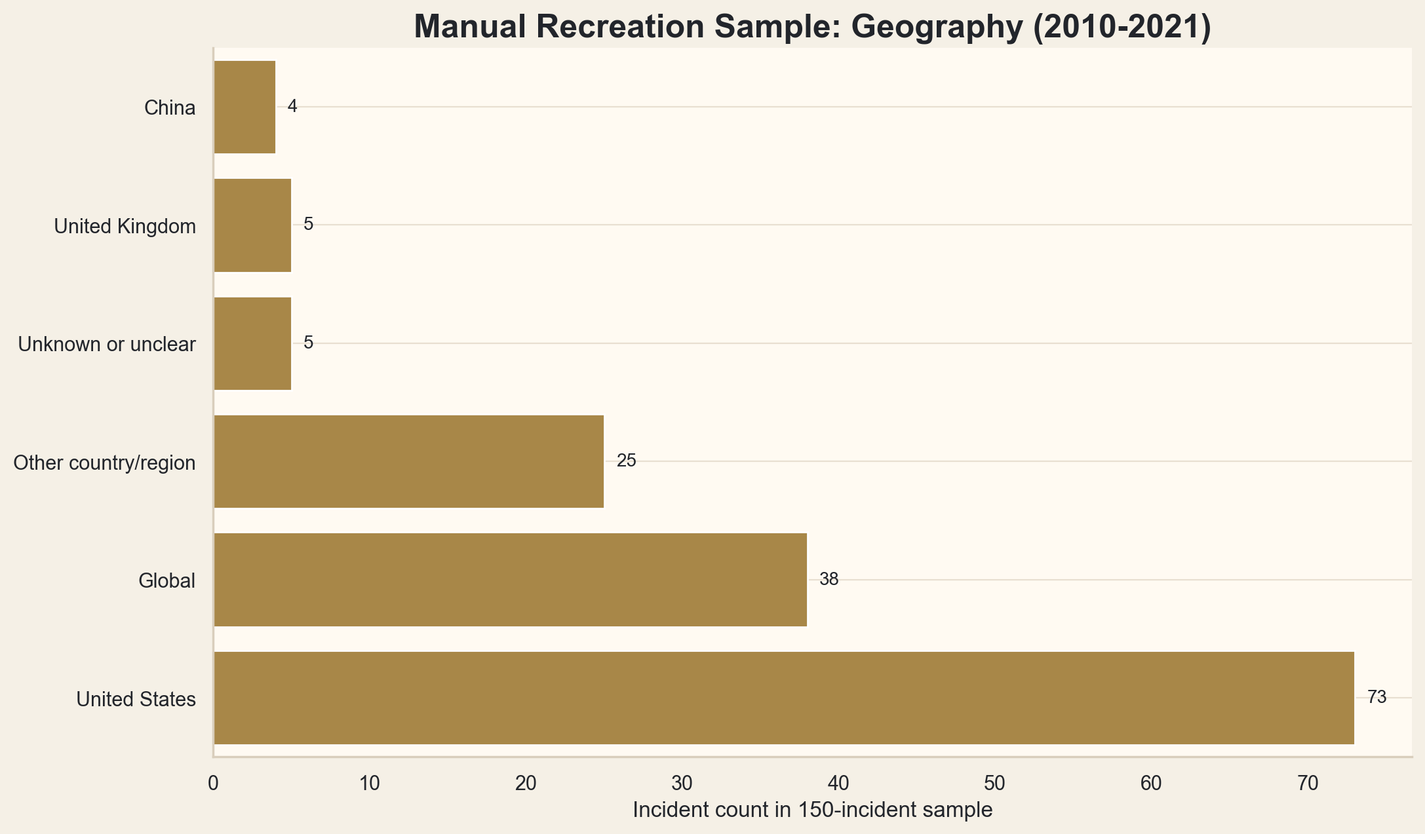
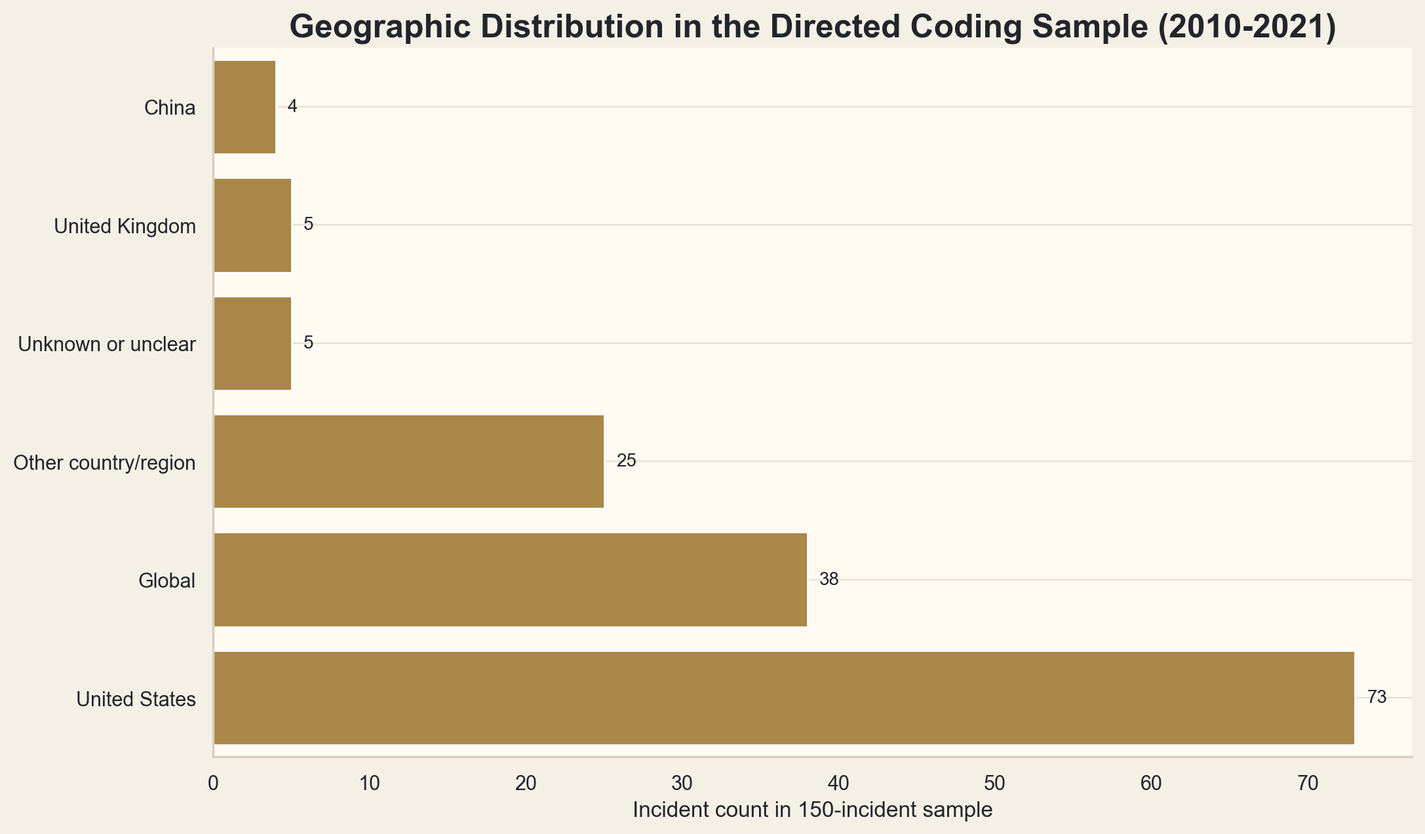
update README report and charts

Changed region(s): [[0.1849, 0.0, 0.9554, 0.0613]]

diff --git a/src/make_charts.py b/src/make_charts.py
@@ -1,4 +1,4 @@
-"""Generate manual-coding charts for the AI incident analysis project."""
+"""Generate directed-coding charts for the AI incident analysis project."""
 
 from __future__ import annotations
 
@@ -119,7 +119,7 @@ def chart_manual_application_areas(application_summary: pd.DataFrame) -> None:
 
     fig, ax = plt.subplots(figsize=(12, 8.5), dpi=200)
     sns.barplot(data=chart_data, x="incident_count", y="application_area", color=TEAL, ax=ax)
-    ax.set_title("Manual Recreation Sample: Application Areas (2010-2021)")
+    ax.set_title("Application Areas in the Directed Coding Sample (2010-2021)")
     ax.set_xlabel("Incident count in 150-incident sample")
     ax.set_ylabel("")
     style_axes(ax)
@@ -138,7 +138,7 @@ def chart_manual_ethics_issues(ethics_summary: pd.DataFrame) -> None:
 
     fig, ax = plt.subplots(figsize=(12, 7.5), dpi=200)
     sns.barplot(data=chart_data, x="incident_count", y="ethics_issue", color=ORANGE, ax=ax)
-    ax.set_title("Manual Recreation Sample: Ethics Issues (2010-2021)")
+    ax.set_title("Ethics Issues in the Directed Coding Sample (2010-2021)")
     ax.set_xlabel("Incident count in 150-incident sample")
     ax.set_ylabel("")
     style_axes(ax)
@@ -153,7 +153,7 @@ def chart_manual_geography(geographic_summary: pd.DataFrame) -> None:
 
     fig, ax = plt.subplots(figsize=(11, 6.5), dpi=200)
     sns.barplot(data=chart_data, x="incident_count", y="geographic_location", color=GOLD, ax=ax)
-    ax.set_title("Manual Recreation Sample: Geography (2010-2021)")
+    ax.set_title("Geographic Distribution in the Directed Coding Sample (2010-2021)")
     ax.set_xlabel("Incident count in 150-incident sample")
     ax.set_ylabel("")
     style_axes(ax)
@@ -200,20 +200,20 @@ def chart_paper_comparison(
         axes[0],
         paper_app_comparison,
         "application_area",
-        "Application Areas: Paper vs. Recreated 2010-2021 Sample",
+        "Comparison With Paper-Reported Counts: Application Areas",
     )
     plot_grouped_comparison(
         axes[1],
         paper_ethics_comparison,
         "ethics_issue",
-        "Ethics Issues: Paper vs. Recreated 2010-2021 Sample",
+        "Comparison With Paper-Reported Counts: Ethics Issues",
     )
     handles, labels = axes[0].get_legend_handles_labels()
     fig.legend(handles, labels, loc="upper center", ncol=2, frameon=False, bbox_to_anchor=(0.5, 0.98))
     fig.text(
         0.02,
         0.015,
-        "Note: Counts are compared against the paper's reported totals, but the current public AIID snapshot appears to have drifted from the paper's incident IDs.",
+        "Note: Counts are compared against the paper's reported totals, but the paper's incident numbers do not map cleanly onto the current public AIID ID space.",
         fontsize=10,
         color=INK,
     )
@@ -259,13 +259,13 @@ def extract_metric(pre_post_summary: pd.DataFrame, period: str, category: str) -
 
 
 def chart_summary_card(summary_stats: list[str], pre_post_summary: pd.DataFrame) -> None:
-    total_sample = extract_stat(summary_stats, "- Manual recreation sample size")
+    total_sample = extract_stat(summary_stats, "- Directed coding sample size")
     top_app = extract_stat(summary_stats, "- Top application area")
     top_issue = extract_stat(summary_stats, "- Top ethics issue")
     taxonomy_fit = extract_stat(summary_stats, "- Post-2021 taxonomy fit counts")
-    lvm_pre = extract_metric(pre_post_summary, "2010-2021 manual recreation", "Language/vision model")
+    lvm_pre = extract_metric(pre_post_summary, "2010-2021 directed coding sample", "Language/vision model")
     lvm_post = extract_metric(pre_post_summary, "2022-2026 extension sample", "Language/vision model")
-    illegal_pre = extract_metric(pre_post_summary, "2010-2021 manual recreation", "Unethical use (illegal use)")
+    illegal_pre = extract_metric(pre_post_summary, "2010-2021 directed coding sample", "Unethical use (illegal use)")
     illegal_post = extract_metric(pre_post_summary, "2022-2026 extension sample", "Unethical use (illegal use)")
 
     fig = plt.figure(figsize=(10, 10), dpi=200, facecolor=BACKGROUND)
@@ -294,10 +294,10 @@ def chart_summary_card(summary_stats: list[str], pre_post_summary: pd.DataFrame)
         )
     )
     ax.text(0.09, 0.89, "What Actually Goes Wrong With AI?", fontsize=24, fontweight="bold", color="white")
-    ax.text(0.09, 0.845, "Manual recreation of a qualitative AI incident study", fontsize=12, color="white")
+    ax.text(0.09, 0.845, "LLM-assisted directed coding of a reproducible AIID sample", fontsize=12, color="white")
 
     cards = [
-        ("Manual sample", f"{total_sample} incidents from 2010-2021"),
+        ("Directed sample", f"{total_sample} incidents from 2010-2021"),
         ("Top issue", top_issue),
         ("Top application area", top_app),
         ("Post-2021 fit", taxonomy_fit),
@@ -350,7 +350,7 @@ def main() -> None:
     chart_taxonomy_fit(inputs["taxonomy_fit_summary"])
     chart_summary_card(inputs["summary_stats"], inputs["pre_post_summary"])
     remove_obsolete_figures()
-    print("Saved manual chart outputs to outputs/figures.")
+    print("Saved directed-coding chart outputs to outputs/figures.")
 
 
 if __name__ == "__main__":

diff --git a/src/build_summary_tables.py b/src/build_summary_tables.py
@@ -29,7 +29,7 @@ SUMMARY_STATS_PATH = PROCESSED_DIR / "summary_stats.md"
 
 ETHICS_COLUMNS = ["ethics_issue_1", "ethics_issue_2", "ethics_issue_3", "ethics_issue_4"]
 
-PRE_PERIOD = "2010-2021 manual recreation"
+PRE_PERIOD = "2010-2021 directed coding sample"
 POST_PERIOD = "2022-2026 extension sample"
 
 COMPARE_APPLICATION_AREAS = [
@@ -386,7 +386,7 @@ def write_summary_stats(
     summary_lines = [
         "# Summary Stats",
         "",
-        f"- Manual recreation sample size: {total_incidents}",
+        f"- Directed coding sample size: {total_incidents}",
         f"- Sample date range: {manual['year'].min()} to {manual['year'].max()}",
         f"- Top application area: {top_application['application_area']} ({int(top_application['incident_count'])} incidents, {top_application['share_of_sample']:.1%})",
         f"- Top ethics issue: {top_ethics['ethics_issue']} ({int(top_ethics['incident_count'])} incidents, {top_ethics['share_of_sample']:.1%})",
@@ -404,7 +404,7 @@ def write_summary_stats(
         f"- Post-2021 taxonomy fit counts: Fits well={int(extension_fit_lookup.get('Fits well', 0))}, Fits partially={int(extension_fit_lookup.get('Fits partially', 0))}, Does not fit well={int(extension_fit_lookup.get('Does not fit well', 0))}",
         "",
         "Method note:",
-        "This summary is based on the reviewed LLM-assisted directed coding sample rather than the archived rule-based classifier attempt.",
+        "This summary is based on reviewed LLM-assisted directed coding rather than the archived rule-based classifier attempt.",
         "",
         "Reliability note:",
         "This project does not reproduce the paper's two-coder intercoder reliability design or a completed second coding pass.",

diff --git a/report/project_report.md b/report/project_report.md
@@ -3,20 +3,20 @@
 ## Background
 AI governance conversations often focus on principles such as fairness, safety, privacy, and accountability. Those principles matter, but they can still feel abstract. This project looks at the other side of the problem: reported incidents where AI systems caused or nearly caused harm in practice.
 
-I built this as a small portfolio reproduction and update based on the paper "AI Ethics Issues in Real World: Evidence from AI Incident Database" by Mengyi Wei and Zhixuan Zhou. The goal is not to claim a perfect academic replication. The goal is to understand how the paper works, recreate its core logic honestly, and update the picture with newer incidents.
-
-## Research question
-Main question: What kinds of real-world problems show up most often when AI systems fail or cause harm?
-
-Extension question: Do the paper's original categories still fit newer post-2021 AI incidents?
+I built this as a small portfolio reproduction and update based on the paper "AI Ethics Issues in Real World: Evidence from AI Incident Database" by Mengyi Wei and Zhixuan Zhou. The goal is not to claim a perfect academic replication. The goal is to understand how the paper works, recreate its coding structure honestly, and update the picture with newer incidents.
 
 ## What the paper did
 The paper analyzed 150 AI Incident Database incidents from 2010 to 2021. It used manual qualitative content analysis and coded four attributes: time, geography, application area, and ethics issue. Application area was single-label, while ethics issue was multi-label. The paper reported 13 application areas and 8 ethics issue categories, and its published results came from manual coding rather than an automated classifier.
 
-## Data source
-This project uses the public AI Incident Database snapshot recorded in `data/raw/source_documents_log.csv`. The cleaned incident file used for sampling is `data/processed/incidents_cleaned.csv`.
+## What this project recreates
+This project recreates the paper's coding structure rather than its exact coding process. It applies the paper's published categories to a reproducible public AIID sample, adds geography, compares the resulting distribution with the paper's reported counts, and then tests the same category frame on a small post-2021 extension sample.
 
-The main recreation uses a 150-incident sample from 2010 to 2021. The extension uses a separate 50-incident sample from 2022 to 2026.
+## Important method differences
+- The paper derived and applied its categories through two-coder manual qualitative coding.
+- This project uses LLM-assisted directed coding suggestions reviewed and accepted by one author.
+- No second independent coding pass was completed.
+- The project does not reproduce the paper's intercoder reliability design.
+- The public paper does not fully reveal the exact original 150-case selection rule.
 
 ## Sample selection
 The paper states that it analyzed 150 incidents from 2010 to 2021, but the exact public selection rule is not recoverable from the paper alone. To keep this project reproducible, I used a deterministic rule:
@@ -24,50 +24,48 @@ The paper states that it analyzed 150 incidents from 2010 to 2021, but the exact
 1. Filter to the target year range.
 2. Keep incidents with non-empty title, description, and date fields.
 3. Sort by `incident_id`.
-4. Take the first `150` incidents for the main recreation and the first `50` incidents for the post-2021 extension.
+4. Take the first `150` incidents for the main sample and the first `50` incidents for the post-2021 extension.
 
 This is an approximation of the paper's incident set, not proof that the samples match the authors' original internal workflow.
 
-## Coding method
-The paper derived its taxonomy through conventional content analysis. This project applies the already-published taxonomy through directed content analysis.
+## LLM-Assisted Directed Coding Method
+The paper derived its taxonomy through conventional content analysis. This project instead applies the already-published taxonomy through LLM-assisted directed coding.
 
-For the 2010-2021 sample, I coded:
+For the 2010-2021 sample, I retained:
 
 - geography
 - one primary application area
 - up to four ethics issue labels
 
-For the post-2021 extension, I used the same fields and added a `taxonomy_fit` judgment with four possible outcomes:
+For the post-2021 extension, I used the same fields and added a `taxonomy_fit` judgment with these outcomes:
 
 - `Fits well`
 - `Fits partially`
 - `Does not fit well`
 - `Unclear`
 
-This project does not reproduce the paper's two-coder reliability design. It is a single-workflow portfolio reproduction.
+AI assistance was used for repository scaffolding, code generation, review support, draft organization, and preliminary coding suggestions. Final category assignments, evidence notes, interpretation, and retained outputs were reviewed and accepted by the project author. This project is presented as a single-author LLM-assisted directed coding recreation, not as an exact replication of the paper's two-coder manual content analysis.
 
-AI assistance was used for repository scaffolding, code generation, review support, draft organization, and preliminary coding suggestions. Final category assignments, evidence notes, interpretation, and retained outputs were reviewed and accepted by the project author. This project is presented as a single-author directed coding recreation, not as an exact replication or two-coder academic reliability study.
+## Results
+In the 2010-2021 directed coding sample, the most common application area is `Language/vision model` with 32 of 150 incidents. The most common ethics issue is `Inappropriate use (bad performance)` with 75 of 150 incidents. The most common geography label is `United States` with 73 incidents.
 
-## Manual coding results
-In the 2010-2021 recreation sample, the most common application area is `Language/vision model` with 32 of 150 incidents. The most common ethics issue is `Inappropriate use (bad performance)` with 75 of 150 incidents. The most common geography label is `United States` with 73 incidents.
-
-At a high level, the geography pattern is reasonably close to the paper. This recreation contains 82 incidents in the United States, China, and the United Kingdom combined, compared with the paper's reported 89. It also contains 38 globally framed incidents, compared with the paper's reported 40.
+At a high level, the geography pattern is reasonably close to the paper. This sample contains 82 incidents in the United States, China, and the United Kingdom combined, compared with the paper's reported 89. It also contains 38 globally framed incidents, compared with the paper's reported 40.
 
 ## Comparison with paper
 The comparison tables in `data/processed/paper_comparison_application_areas.csv` and `data/processed/paper_comparison_ethics_issues.csv` show that some categories land close to the paper while others shift.
 
 Examples:
 
-- `Autonomous driving` matches the paper's reported count exactly at 17 incidents in this recreation sample.
+- `Autonomous driving` matches the paper's reported count exactly at 17 incidents in this sample.
 - `Language/vision model` is somewhat higher here at 32 incidents versus 27 in the paper.
 - `Intelligent service robots` is lower here at 14 incidents versus 31 in the paper.
 
-These differences are not surprising. The paper's original coded sample is not public, and this project uses an explicit reproducible rule plus directed coding on the current public snapshot.
+These differences are not surprising. The paper's original coded sample is not public, and this project uses an explicit reproducible rule plus reviewed directed coding on the current public snapshot.
 
-## Named incident spot-checks
-The paper names several specific incident IDs in its results sections. I used those as a limited validation subset in `data/processed/paper_named_incident_checks.csv`.
+## Failed Named-Incident ID Mapping Attempt
+I initially attempted to use paper-named incident numbers as verification anchors. This did not work because the paper's `Incident N` labels do not appear to correspond to stable AIID incident IDs in the current public snapshot.
 
-That file shows a strong limitation of working with the current public snapshot: only 8 of 46 in-sample paper anchors agree with this project's labels, and 3 named anchors are not present in the current cleaned snapshot at all. The named incident spot-checks show that the current public snapshot does not line up cleanly with several paper-named incident examples. This may reflect AIID record drift, changed incident descriptions, sample-selection differences, or other differences between the paper's working dataset and the current public snapshot.
+The mapping attempt file therefore records a reproducibility limitation rather than an agreement score. The paper's incident numbers appear more consistent with internal sequence numbers from its selected 150-case sample than with stable public AIID IDs.
 
 ## Post-2021 extension
 The extension sample contains 50 incidents from 2022 to 2026. `Language/vision model` becomes even more prominent here, accounting for 17 of 50 incidents. `Unethical use (illegal use)` also becomes much more common than in the 2010-2021 sample.
@@ -81,16 +79,19 @@ The taxonomy fit results are:
 This suggests the paper's original taxonomy still works for many newer incidents, especially safety, privacy, bias, and evaluation harms. But it is less comfortable for deepfakes, synthetic media misuse, prompt injection, recommendation-driven misinformation, and other generative-AI incidents that were less central in the 2010-2021 period.
 
 ## Negative result from keyword automation
-An earlier version of this project used transparent keyword rules across the full public AIID snapshot. That approach was reproducible, but it was not methodologically aligned with the paper because the paper used manual coding. The archived experiment is kept in `experiments/rule_based_classifier_attempt/` as a documented negative finding rather than as the main recreation.
+An earlier version of this project used transparent keyword rules across the full public AIID snapshot. That approach was reproducible, but it was not methodologically aligned with the paper because the paper used manual qualitative coding. The archived experiment is kept in `experiments/rule_based_classifier_attempt/` as a documented negative finding rather than as the main project.
 
 ## Limitations
+- This project is not the same as the paper's original manual content analysis.
 - The exact original sample selection rule from the paper is not public.
-- The named incident spot-checks show that the current public snapshot does not line up cleanly with several paper-named incident examples. This may reflect AIID record drift, changed incident descriptions, sample-selection differences, or other differences between the paper's working dataset and the current public snapshot.
-- This project does not reproduce the paper's two-coder reliability design.
+- No two-coder intercoder reliability was reproduced.
+- No completed second coding pass was carried out.
+- The paper's incident numbers cannot be directly mapped to AIID IDs in the current public snapshot.
+- LLM-assisted coding may still introduce classification errors.
 - The post-2021 extension is a small descriptive follow-on sample, not a causal test of generative AI.
 - The AI Incident Database is a useful incident source, not a complete record of all AI harms.
 
 ## What I learned
-The main lesson is that AI harm is not one single problem. Even in a small manual sample, the incidents spread across bad performance, discrimination, privacy, safety, unfair evaluation, and misuse.
+The main lesson is that AI harm is not one single problem. Even in a small reviewed directed-coding sample, the incidents spread across bad performance, discrimination, privacy, safety, unfair evaluation, and misuse.
 
 The extension adds a second lesson: the older taxonomy still explains a lot, but newer generative and synthetic-media incidents reveal category strain. That makes the project more interesting than either a perfect replication claim or a pure automation exercise.

diff --git a/README.md b/README.md
@@ -3,9 +3,7 @@
 _A simple reproduction and update of an AI incident database study_
 
 ## What this project is
-This project recreates and extends a paper about real-world AI incidents.
-
-The original paper manually coded 150 incidents from the AI Incident Database (AIID). I recreated that approach by manually coding a reproducible 2010-2021 sample using the paper's published categories, then applied the same categories to a small post-2021 sample to see whether they still fit newer incidents.
+This project recreates the coding structure of an AI incident study using a reproducible 2010-2021 sample from the AI Incident Database. The original paper used manual qualitative content analysis; this project uses LLM-assisted directed coding to apply the paper's published categories, with final labels reviewed and accepted by the project author.
 
 ## Why I did it
 After studying AI governance rules in an earlier project, I wanted to look at the other side of the problem: what actually goes wrong when AI systems are deployed.
@@ -23,43 +21,42 @@ In the paper, the authors manually analyzed 150 AIID incidents from 2010 to 2021
 
 ## What the original paper did
 - Used 150 incidents from 2010 to 2021
-- Used manual content analysis
+- Used manual qualitative content analysis
 - Coded time, geography, application area, and ethics issue
 - Used single-label application areas and multi-label ethics issues
 - Reported 13 application areas and 8 ethics issue categories
 - Used two coders and reported intercoder reliability
 
 ## What I recreated
-- Used the public AIID snapshot recorded in this repo
-- Filtered incidents to 2010-2021
-- Selected a reproducible 150-incident sample using an explicit deterministic rule
-- Applied the paper's published taxonomy through directed content analysis
-- Manually coded geography, application area, and ethics issues
-- Compared the resulting counts with the paper's reported counts
-- Checked paper-named incident IDs where the current public snapshot still makes that possible
-- Added a separate 50-incident post-2021 extension sample to test taxonomy fit
+I recreated the paper's coding frame rather than its exact coding process. I filtered the AIID snapshot to the paper's 2010-2021 window, selected a reproducible 150-incident sample, applied the paper's 13 application-area categories and 8 ethics-issue categories, added geography, and compared the resulting distribution with the paper's reported counts.
 
-## Important differences from the paper
-- The paper's exact incident selection rule is not fully recoverable from the public text, so this project uses a transparent deterministic rule instead.
-- The paper derived its taxonomy through conventional content analysis. This project applies the already-published taxonomy through directed content analysis.
-- This project does not reproduce the paper's two-coder reliability design.
-- The named incident spot-checks show that the current public snapshot does not line up cleanly with several paper-named incident examples. This may reflect AIID record drift, changed incident descriptions, sample-selection differences, or other differences between the paper's working dataset and the current public snapshot.
-- This is a portfolio reproduction and update, not a perfect academic replication.
+I then applied the same coding frame to a separate 50-incident post-2021 extension sample to test whether the taxonomy still fits newer incidents.
+
+## Important method differences
+- This is not a faithful reproduction of the paper's manual coding process.
+- The original paper used two human coders and reported intercoder reliability.
+- This project uses LLM-assisted directed coding reviewed by one author.
+- No second independent coding pass was completed.
+- The paper's exact 150-case selection rule is not fully recoverable from the public text.
+- The paper's incident numbers do not appear to map directly to stable AIID incident IDs in the current public snapshot.
 
 ## What I found
-For the 2010-2021 manual recreation sample:
+For the 2010-2021 directed coding sample:
 
 - Top application area: `Language/vision model` with 32 of 150 incidents (21.3%)
 - Top ethics issue: `Inappropriate use (bad performance)` with 75 of 150 incidents (50.0%)
 - Most common geography label: `United States` with 73 of 150 incidents (48.7%)
-- `United States + China + United Kingdom` account for 82 of 150 incidents in this recreation, compared with the paper's reported 89 of 150
+- `United States + China + United Kingdom` account for 82 of 150 incidents in this sample, compared with the paper's reported 89 of 150
 - `Global` accounts for 38 incidents, close to the paper's reported 40
 
-The paper comparison tables also show where this recreation lines up and where it does not. For example, autonomous driving matches the paper's reported count exactly in this sample (`17`), while language/vision models are somewhat higher (`32` here vs `27` in the paper) and intelligent service robots are lower (`14` here vs `31` in the paper).
+The paper comparison tables show where this directed coding sample lines up and where it does not. For example, autonomous driving matches the paper's reported count exactly in this sample (`17`), while language/vision models are somewhat higher (`32` here vs `27` in the paper) and intelligent service robots are lower (`14` here vs `31` in the paper).
 
-The named incident spot-check file is useful as a limitation check. Only 8 of 46 in-sample paper anchors matched the current public snapshot's incident IDs and this project's resulting labels. That does not mean the paper is wrong. The named incident spot-checks show that the current public snapshot does not line up cleanly with several paper-named incident examples. This may reflect AIID record drift, changed incident descriptions, sample-selection differences, or other differences between the paper's working dataset and the current public snapshot.
+## Failed Named-Incident ID Mapping Attempt
+I initially attempted to use paper-named incident numbers as verification anchors. This did not work because the paper's `Incident N` labels do not appear to correspond to stable AIID incident IDs in the current public snapshot.
 
-## Extension: do the old categories still fit newer incidents?
+The named-incident mapping file is therefore treated as a reproducibility limitation, not an agreement test. The paper's incident numbers appear to be internal sequence numbers from its selected 150-case sample rather than a public answer key for current AIID IDs.
+
+## Post-2021 Extension
 For the post-2021 extension sample of 50 incidents:
 
 - `Language/vision model` becomes even more prominent at 17 of 50 incidents (34.0%)
@@ -68,25 +65,25 @@ For the post-2021 extension sample of 50 incidents:
 
 The main takeaway from the extension is that the paper's taxonomy still works for many newer incidents, especially bias, privacy, safety, and evaluation harms. But it strains on synthetic media, deepfakes, prompt-injection misuse, recommendation-driven misinformation, and other generative-AI cases that do not map neatly onto the older categories.
 
-## Negative result: why I moved away from keyword automation
-An earlier version of this project tried to approximate the paper's manual coding with transparent keyword rules across the full public AIID snapshot. That approach was reproducible, but it was not methodologically equivalent to the paper. Keyword rules created false positives, and the resulting rankings were sensitive to rule design and record wording.
+## Negative Result: Why I Moved Away From Keyword Automation
+An earlier version of this project tried to approximate the paper's coding structure with transparent keyword rules across the full public AIID snapshot. That approach was reproducible, but it was not methodologically equivalent to the paper because the paper used manual qualitative coding. Keyword rules created false positives, and the resulting rankings were sensitive to rule design and record wording.
 
-I kept that attempt as an archived experiment in [experiments/rule_based_classifier_attempt/README.md](experiments/rule_based_classifier_attempt/README.md) because it helps explain why the final project uses manual coding instead.
+I kept that attempt as an archived experiment in [experiments/rule_based_classifier_attempt/README.md](experiments/rule_based_classifier_attempt/README.md) because it helps explain why the final project uses reviewed directed coding instead.
 
 ## Charts
 ### Portfolio summary card
 ![Portfolio summary card](outputs/figures/portfolio_summary_card.png)
 
-### Manual application areas
-![Manual application areas](outputs/figures/manual_application_areas.png)
+### Directed coding sample: application areas
+![Directed coding application areas](outputs/figures/manual_application_areas.png)
 
-### Manual ethics issues
-![Manual ethics issues](outputs/figures/manual_ethics_issues.png)
+### Directed coding sample: ethics issues
+![Directed coding ethics issues](outputs/figures/manual_ethics_issues.png)
 
-### Manual geographic distribution
-![Manual geographic distribution](outputs/figures/manual_geographic_distribution.png)
+### Directed coding sample: geographic distribution
+![Directed coding geographic distribution](outputs/figures/manual_geographic_distribution.png)
 
-### Paper comparison
+### Comparison with paper-reported counts
 ![Paper comparison](outputs/figures/paper_comparison.png)
 
 ### Post-2021 taxonomy fit
@@ -106,4 +103,7 @@ python src/make_charts.py
 ```
 
 ## Method transparency
-AI assistance was used for repository scaffolding, code generation, review support, draft organization, and preliminary coding suggestions. Final category assignments, evidence notes, interpretation, and retained outputs were reviewed and accepted by the project author. This project is presented as a single-author directed coding recreation, not as an exact replication or two-coder academic reliability study.
+AI assistance was used for repository scaffolding, code generation, review support, draft organization, and preliminary coding suggestions. Final category assignments, evidence notes, interpretation, and retained outputs were reviewed and accepted by the project author. This project is presented as a single-author LLM-assisted directed coding recreation, not as an exact replication of the paper's two-coder manual content analysis.
+
+## Final project claim
+"I recreated the coding structure of a qualitative AI incident study using a reproducible AIID sample and LLM-assisted directed coding, then tested whether the paper's categories still fit newer incidents."

diff --git a/data/processed/summary_stats.md b/data/processed/summary_stats.md
@@ -1,6 +1,6 @@
 # Summary Stats
 
-- Manual recreation sample size: 150
+- Directed coding sample size: 150
 - Sample date range: 2010 to 2021
 - Top application area: Language/vision model (32 incidents, 21.3%)
 - Top ethics issue: Inappropriate use (bad performance) (75 incidents, 50.0%)
@@ -18,7 +18,7 @@
 - Post-2021 taxonomy fit counts: Fits well=26, Fits partially=15, Does not fit well=9
 
 Method note:
-This summary is based on the reviewed LLM-assisted directed coding sample rather than the archived rule-based classifier attempt.
+This summary is based on reviewed LLM-assisted directed coding rather than the archived rule-based classifier attempt.
 
 Reliability note:
 This project does not reproduce the paper's two-coder intercoder reliability design or a completed second coding pass.

diff --git a/data/manual_coding/coding_guide.md b/data/manual_coding/coding_guide.md
@@ -106,4 +106,4 @@ Keep notes short and practical:
 
 ## Reliability Note
 
-This is a single-author portfolio workflow. It does not reproduce the paper's two-coder reliability design. No second independent coding pass was completed, so this project does not report intercoder reliability or self-agreement.
+This is a single-author portfolio workflow. It does not reproduce the paper's two-coder reliability design. No second independent coding pass was completed, so this project does not report intercoder reliability metrics.
